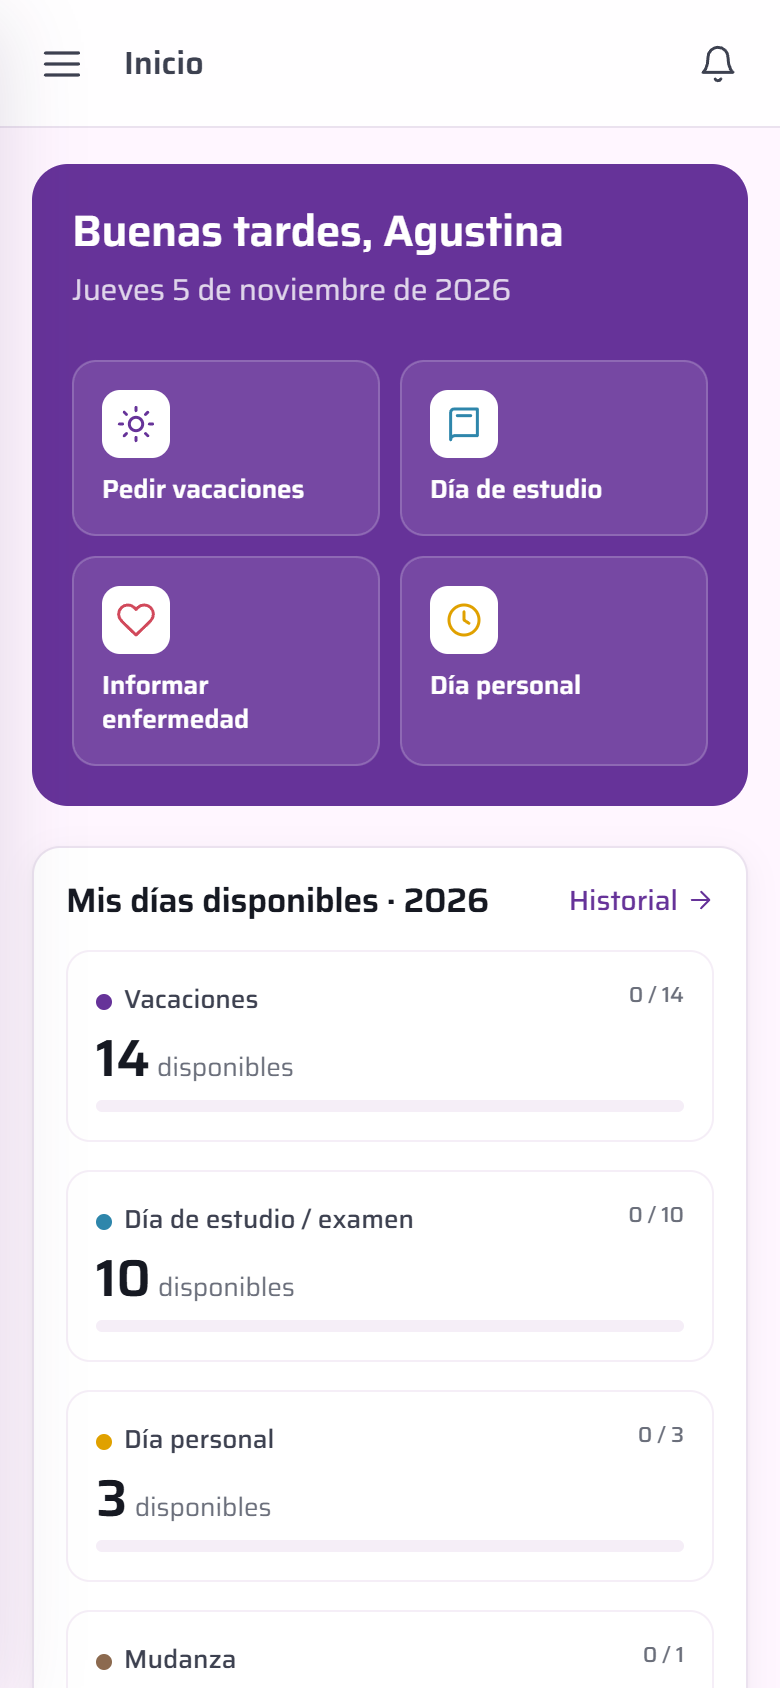
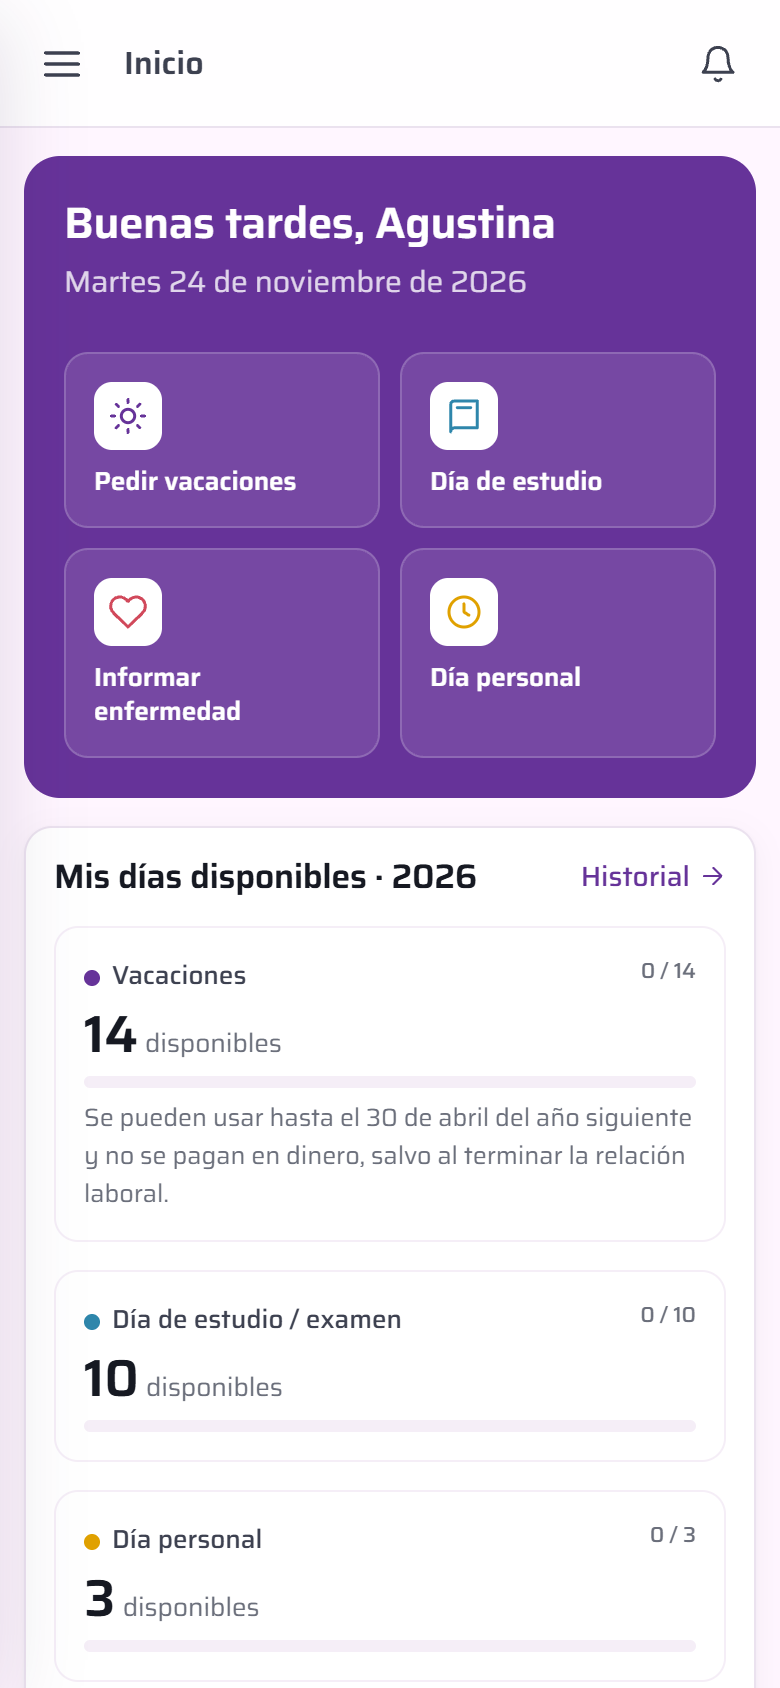
Vacaciones: un pedido entre el 1 de enero y el 30 de abril usa primero los días del año anterior que quedan (LCT art. 154)

diff --git a/app/lib/leave.php b/app/lib/leave.php
@@ -539,11 +539,79 @@ function days_used(int $userId, int $typeId, int $year, ?int $excludeId = null):
 /**
  * Días de vacaciones del año en los estados indicados.
  */
-function vacation_used(int $userId, int $year, string $statuses = "'approved'"): float
+function vacation_used(int $userId, int $year, string $statuses = "'approved'", ?int $excludeId = null): float
 {
-    return (float) val("SELECT COALESCE(SUM(r.days),0) FROM leave_requests r JOIN leave_types t ON t.id = r.type_id
-        WHERE r.user_id = ? AND (t.uses_vacation_balance = 1 OR r.deduct_vacation = 1)
-          AND COALESCE(r.vacation_year, YEAR(r.start_date)) = ? AND r.status IN ($statuses)", [$userId, $year]);
+    $wanted = array_map(fn ($s) => trim($s, " '"), explode(',', $statuses));
+    $sum = 0.0;
+    foreach (vacation_allocation($userId, $excludeId) as $a) {
+        if (in_array($a['status'], $wanted, true)) {
+            $sum += $a['years'][$year] ?? 0;
+        }
+    }
+
+    return $sum;
+}
+
+/**
+ * Reparte los pedidos de vacaciones (aprobados y pendientes) entre los períodos anuales.
+ *
+ * Las vacaciones de cada año se gozan entre el 1 de octubre y el 30 de abril del año siguiente
+ * (art. 154 de la LCT). Por eso un pedido que empieza entre el 1 de enero y el 30 de abril se
+ * descuenta primero de los días del año anterior que quedan sin usar y el resto, del año nuevo.
+ * Los pedidos se toman en orden de fecha, y los días reprogramados por enfermedad se imputan al
+ * año que indica el pedido.
+ *
+ * @return array<int, array{status: string, years: array<int, float>}> Por pedido, días por año.
+ */
+function vacation_allocation(int $userId, ?int $excludeId = null): array
+{
+    $user = row('SELECT * FROM users WHERE id = ?', [$userId]);
+    if (!$user) {
+        return [];
+    }
+    $drawn = [];
+    $capacity = [];
+    $out = [];
+    foreach (rows("SELECT r.id, r.start_date, r.days, r.status, r.vacation_year FROM leave_requests r JOIN leave_types t ON t.id = r.type_id
+        WHERE r.user_id = ? AND (t.uses_vacation_balance = 1 OR r.deduct_vacation = 1) AND r.status IN ('approved','pending')
+        ORDER BY r.start_date, r.id", [$userId]) as $r) {
+        if ($excludeId && (int) $r['id'] === $excludeId) {
+            continue;
+        }
+        $days = (float) $r['days'];
+        $year = (int) substr($r['start_date'], 0, 4);
+        if ($r['vacation_year'] !== null) {
+            $years = [(int) $r['vacation_year'] => $days];
+        } elseif (substr($r['start_date'], 5) <= '04-30') {
+            $prev = $year - 1;
+            $capacity[$prev] ??= vacation_total($user, $prev) - vacation_carryover($userId, $prev);
+            $fromPrev = min($days, max(0, $capacity[$prev] - ($drawn[$prev] ?? 0)));
+            $years = array_filter([$prev => $fromPrev, $year => $days - $fromPrev]);
+        } else {
+            $years = [$year => $days];
+        }
+        foreach ($years as $y => $d) {
+            $drawn[$y] = ($drawn[$y] ?? 0) + $d;
+        }
+        $out[(int) $r['id']] = ['status' => $r['status'], 'years' => $years];
+    }
+
+    return $out;
+}
+
+/**
+ * Días del año anterior que todavía se pueden usar con vacaciones que empiezan en la fecha
+ * indicada: solo hasta el 30 de abril (art. 154).
+ */
+function vacation_previous_left(array $user, string $from, ?int $excludeId = null): float
+{
+    if (substr($from, 5) > '04-30') {
+        return 0.0;
+    }
+    $prev = (int) substr($from, 0, 4) - 1;
+
+    return max(0, vacation_total($user, $prev) - vacation_carryover((int) $user['id'], $prev)
+        - vacation_used((int) $user['id'], $prev, "'approved','pending'", $excludeId));
 }
 
 /**
@@ -562,6 +630,9 @@ function balances(array $user, int $year): array
         'total' => $entitled, 'used' => $approved, 'pending' => $pending,
         'left' => max(0, $entitled - $approved - $pending),
         'carried' => vacation_carryover((int) $user['id'], $year - 1),
+        // Hasta el 30 de abril todavía se pueden usar los días del año anterior (art. 154).
+        'previous' => $year === (int) date('Y') ? vacation_previous_left($user, date('Y-m-d')) : 0,
+        'previous_year' => $year - 1,
     ];
     foreach (rows('SELECT * FROM leave_types WHERE active = 1 AND max_days_per_year IS NOT NULL AND uses_vacation_balance = 0 ORDER BY sort') as $t) {
         $used = (float) val("SELECT COALESCE(SUM(days),0) FROM leave_requests WHERE user_id = ? AND type_id = ? AND YEAR(start_date) = ? AND status IN ('approved','registered')", [$user['id'], $t['id'], $year]);
@@ -651,13 +722,12 @@ function validate_request(array $user, array $type, string $from, string $to, ?i
     }
     $year = (int) substr($from, 0, 4);
     if ($type['uses_vacation_balance']) {
-        $ent = vacation_total($user, $year);
-        $used = vacation_used((int) $user['id'], $year, "'approved','pending'");
-        if ($excludeId) {
-            $used -= (float) val('SELECT days FROM leave_requests WHERE id = ?', [$excludeId]);
-        }
-        if ($used + $days > $ent) {
-            $msg = 'No alcanzan los días de vacaciones disponibles de ' . $year . ': quedan ' . fdays(max(0, $ent - $used)) . '.';
+        $current = vacation_left($user, $year, $excludeId);
+        $previous = vacation_previous_left($user, $from, $excludeId);
+        if ($days > $current + $previous) {
+            $msg = $previous > 0
+                ? 'No alcanzan los días de vacaciones disponibles: quedan ' . fdays($previous) . ' de ' . ($year - 1) . ' (hasta el 30 de abril) y ' . fdays($current) . ' de ' . $year . '.'
+                : 'No alcanzan los días de vacaciones disponibles de ' . $year . ': quedan ' . fdays($current) . '.';
             $byHr ? $warnings[] = $msg : $errors[] = $msg;
         }
     } elseif ($type['max_days_per_year']) {
@@ -965,13 +1035,16 @@ function store_uploads(int $requestId, int $userId, array $files): array
  */
 function vacation_left(array $user, int $year, ?int $excludeId = null): float
 {
-    $used = vacation_used((int) $user['id'], $year, "'approved','pending'");
-    if ($excludeId) {
-        $used -= (float) val('SELECT days FROM leave_requests r JOIN leave_types t ON t.id = r.type_id
-            WHERE r.id = ? AND (t.uses_vacation_balance = 1 OR r.deduct_vacation = 1)', [$excludeId]);
-    }
+    return max(0, vacation_total($user, $year) - vacation_used((int) $user['id'], $year, "'approved','pending'", $excludeId));
+}
 
-    return max(0, vacation_total($user, $year) - $used);
+/**
+ * Días de vacaciones disponibles para un pedido que empieza en la fecha indicada: los del año y,
+ * hasta el 30 de abril, los que quedan del año anterior.
+ */
+function vacation_available(array $user, string $from, ?int $excludeId = null): float
+{
+    return vacation_left($user, (int) substr($from, 0, 4), $excludeId) + vacation_previous_left($user, $from, $excludeId);
 }
 
 /**

diff --git a/app/controllers/requests.php b/app/controllers/requests.php
@@ -203,7 +203,7 @@ function request_show(int $id): void
         'docs' => rows('SELECT d.*, u.name AS uploader FROM documents d JOIN users u ON u.id = d.user_id WHERE d.request_id = ? ORDER BY d.created_at', [$id]),
         'events' => rows('SELECT e.*, u.name AS user_name FROM request_events e LEFT JOIN users u ON u.id = e.user_id WHERE e.request_id = ? ORDER BY e.created_at, e.id', [$id]),
         'balances' => (can_decide($r) || is_hr()) ? balances($owner, $year) : [],
-        'vacation_left' => (can_decide($r) && !empty($r['vacation_optional'])) ? vacation_left($owner, $year, $r['id']) : null,
+        'vacation_left' => (can_decide($r) && !empty($r['vacation_optional'])) ? vacation_available($owner, $r['start_date'], (int) $r['id']) : null,
         'overlaps' => $overlaps,
         'can_decide' => can_decide($r),
         'can_cancel' => can_cancel($r),
@@ -270,7 +270,7 @@ function request_decide(int $id): void
     $deduct = $decision === 'approved' && !empty($r['vacation_optional']) && post('deduct_vacation') === '1';
     if ($deduct) {
         $owner = row('SELECT * FROM users WHERE id = ?', [$r['user_id']]);
-        $left = vacation_left($owner, (int) substr($r['start_date'], 0, 4), $id);
+        $left = vacation_available($owner, $r['start_date'], $id);
         if ($left < (float) $r['days']) {
             flash('error', "No se puede descontar de vacaciones: a {$r['user_name']} le quedan " . fdays($left) . ' disponibles.');
             redirect('/solicitudes/' . $id);
@@ -285,7 +285,7 @@ function request_decide(int $id): void
         $days = count_days($r['start_date'], $endDate, $r['counting']);
         if ($r['uses_vacation_balance']) {
             $owner = row('SELECT * FROM users WHERE id = ?', [$r['user_id']]);
-            $left = vacation_left($owner, (int) substr($r['start_date'], 0, 4), $id);
+            $left = vacation_available($owner, $r['start_date'], $id);
             if ($left < $days) {
                 flash('error', "No se puede computar la semana completa: a {$r['user_name']} le quedan " . fdays($left) . ' de vacaciones disponibles.');
                 redirect('/solicitudes/' . $id);

diff --git a/app/views/partials/balances.php b/app/views/partials/balances.php
@@ -15,7 +15,8 @@
       </div>
       <?php if ($b['pending'] > 0): ?><small class="muted"><?= e(fdays($b['pending'])) ?> en revisión</small><?php endif ?>
       <?php if (!empty($b['carried'])): ?><small class="muted">Incluye <?= e(fdays($b['carried'])) ?> acumulados del año anterior</small><?php endif ?>
-      <?php if ($b['code'] === 'vacaciones'): ?><small class="muted">No se pagan en dinero, salvo al terminar la relación laboral.</small><?php endif ?>
+      <?php if (!empty($b['previous'])): ?><small class="muted">Además quedan <?= e(fdays($b['previous'])) ?> de <?= (int) $b['previous_year'] ?>, para vacaciones que empiecen hasta el 30 de abril</small><?php endif ?>
+      <?php if ($b['code'] === 'vacaciones'): ?><small class="muted">Se pueden usar hasta el 30 de abril del año siguiente y no se pagan en dinero, salvo al terminar la relación laboral.</small><?php endif ?>
     </div>
   <?php endforeach ?>
 </div>

diff --git a/README.md b/README.md
@@ -92,6 +92,7 @@ Los pedidos fuera del período habitual, como días sueltos, una semana y unos d
 **Vacaciones según la LCT.**
 - **Aviso (art. 154):** la fecha de inicio se notifica con 30 días de anticipación, o 60 para quien está en el convenio de Comercio (CCT 130/75), que se indica en la ficha de cada persona según su puesto. El calendario arranca en esa fecha. RRHH puede cargarlas con menos anticipación, con advertencia, y si se autorizan con menos margen queda registrado en el historial.
 - **Período (art. 154):** se otorgan entre el 1 de octubre y el 30 de abril. Fuera de ese período se avisa que es de común acuerdo, y la autorización lo registra.
+- **Días del año anterior hasta el 30 de abril (art. 154):** las vacaciones de cada año se gozan hasta el 30 de abril del siguiente. Un pedido que empieza entre el 1 de enero y el 30 de abril usa primero los días del año anterior que quedan y después los del año nuevo. Por ejemplo, con 3 días de 2026 y 14 de 2027, unas vacaciones de 7 días en enero usan los 3 de 2026 y 4 de 2027. El panel muestra cuántos días del año anterior quedan, y desde el 1 de mayo ya no se pueden usar.
 - **Verano cada 3 años (art. 154):** el portal detecta a quién le corresponden vacaciones en verano (del 21/12 al 21/3) porque no las tuvo en los dos veranos anteriores. Unas vacaciones cuentan como de verano si al menos la mitad de sus días cae en esa temporada, estén autorizadas o pendientes. Se lo avisa a la persona al pedirlas y en su inicio, y RRHH ve la lista en su panel. Los veranos anteriores al portal se cargan en la ficha.
 - **Menos de medio año (art. 153):** quien ingresó en el año y no llega a la mitad de los días hábiles tiene un día cada 20 días hábiles trabajados.
 - **Acumulación (art. 164):** RRHH registra en la ficha el acuerdo para pasar hasta un tercio de las vacaciones al año siguiente, y esos días se suman a los disponibles del año próximo.
